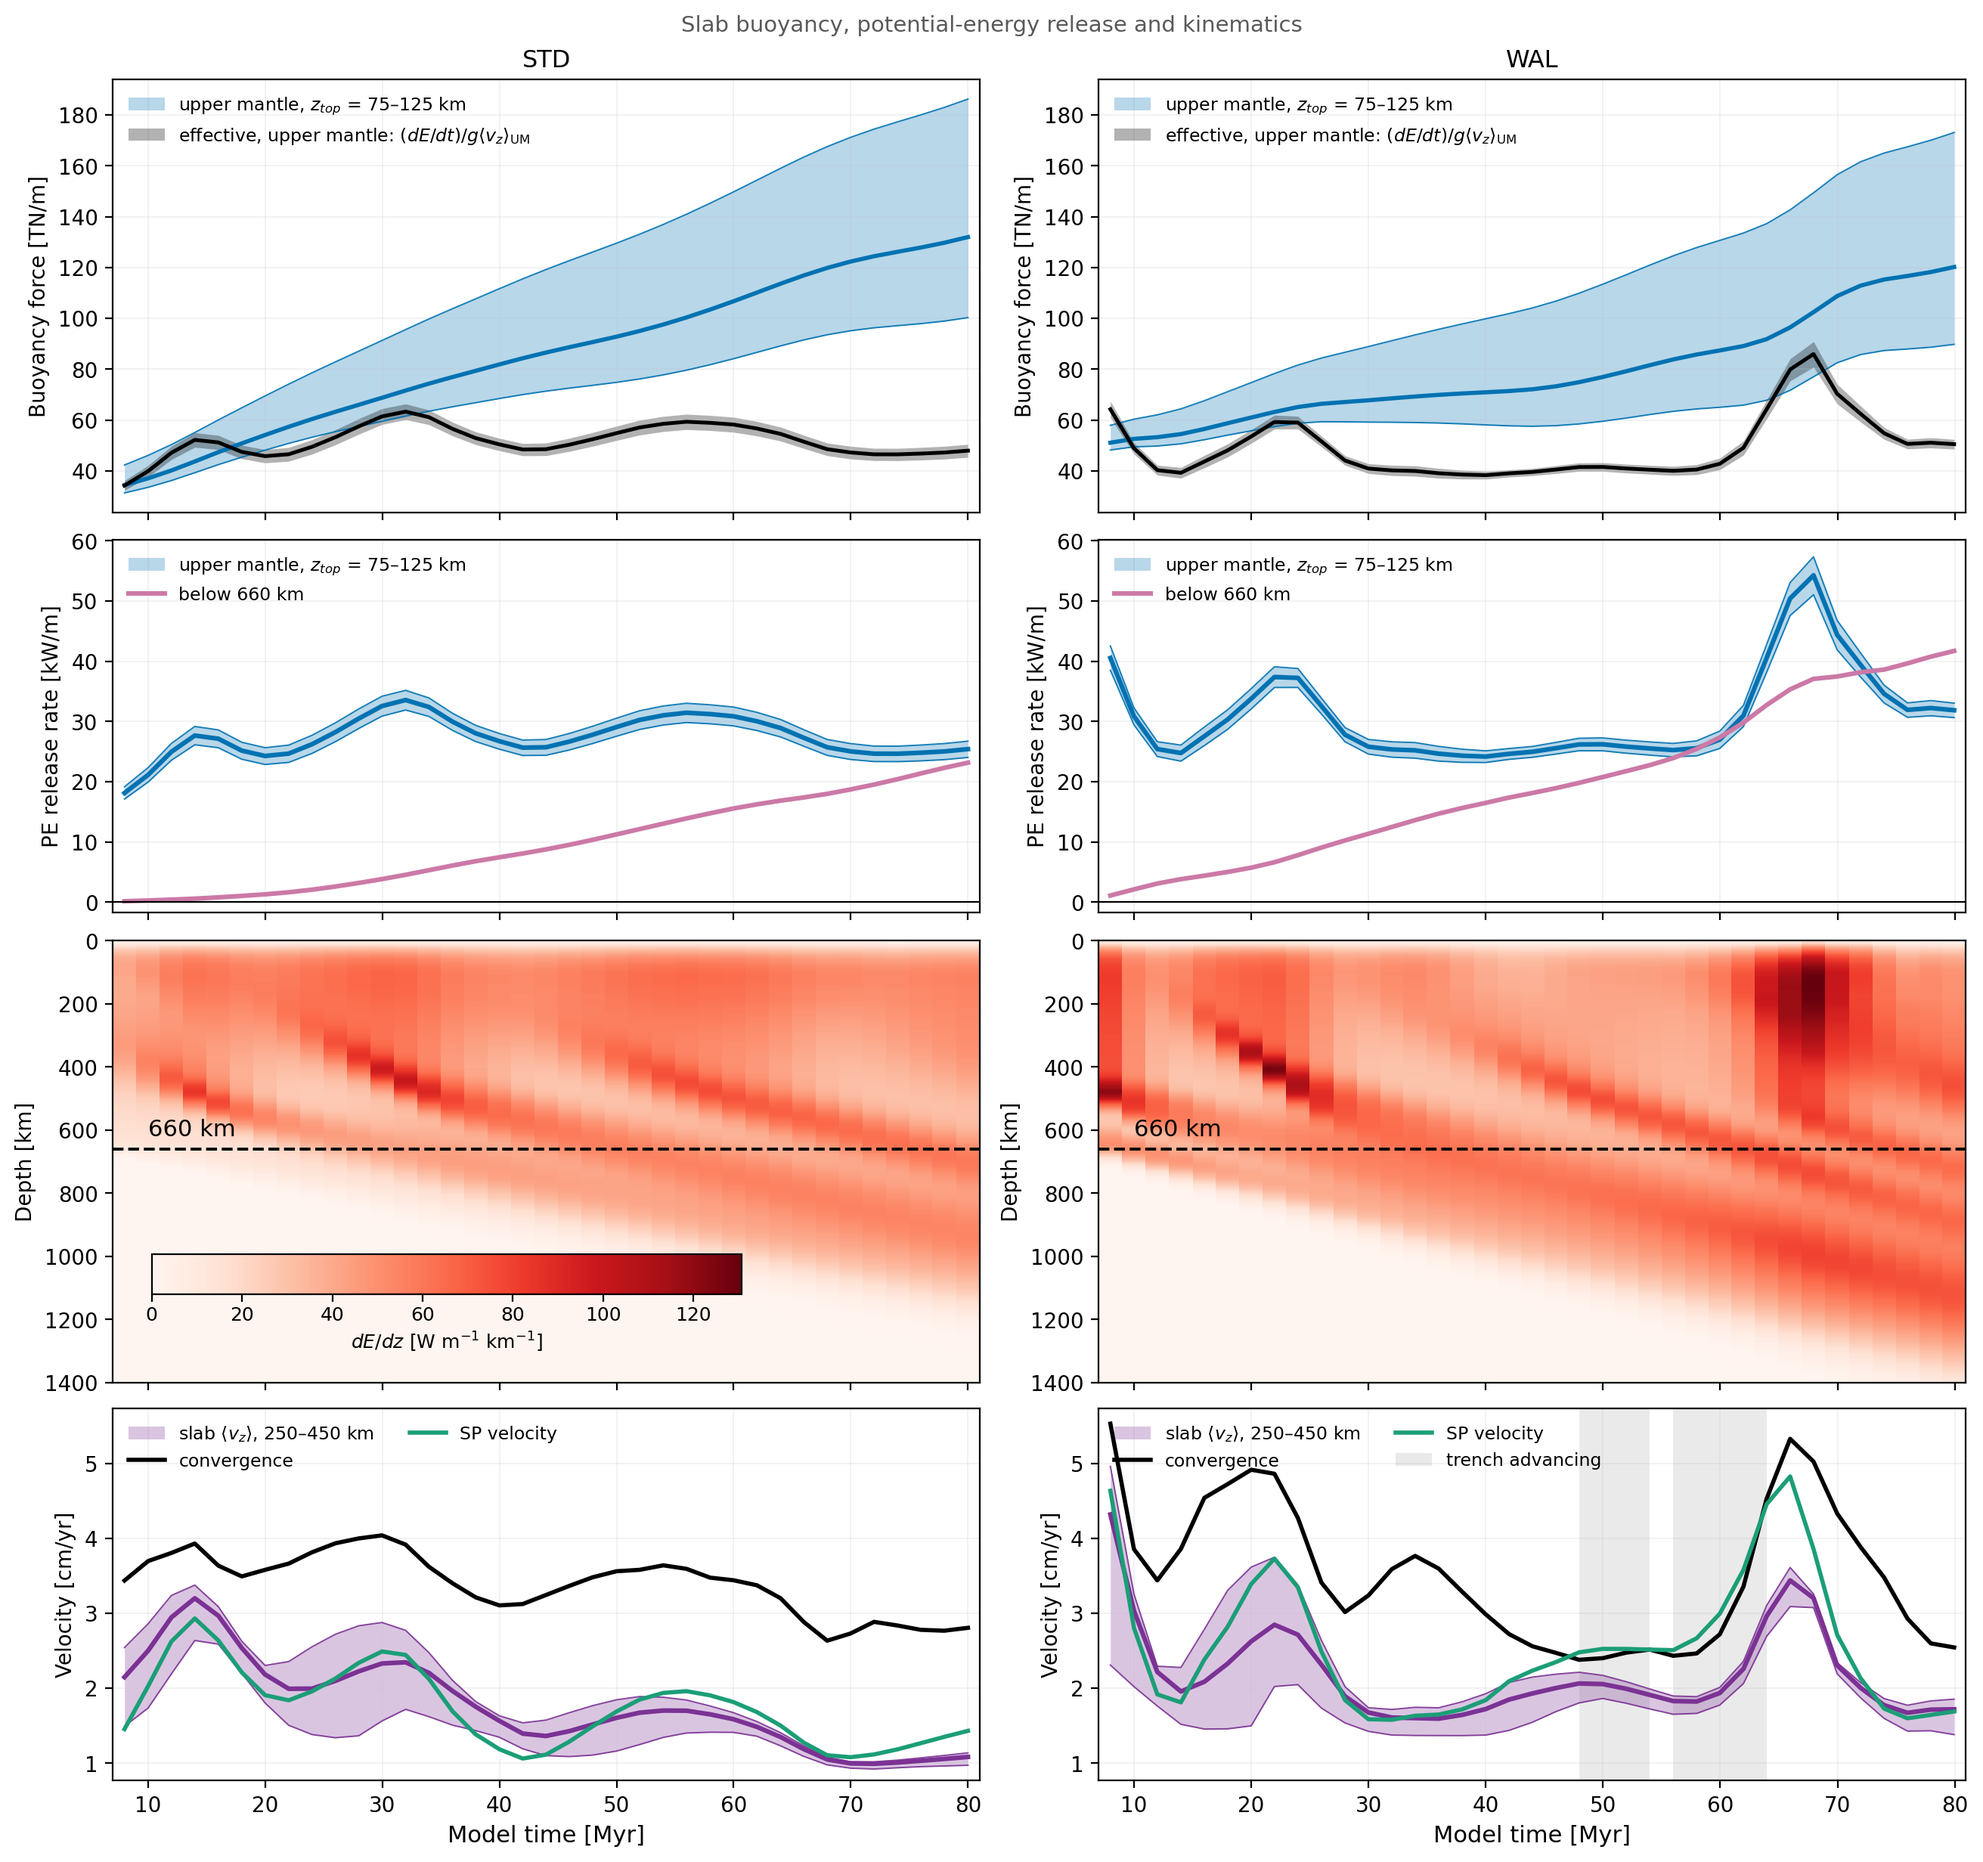
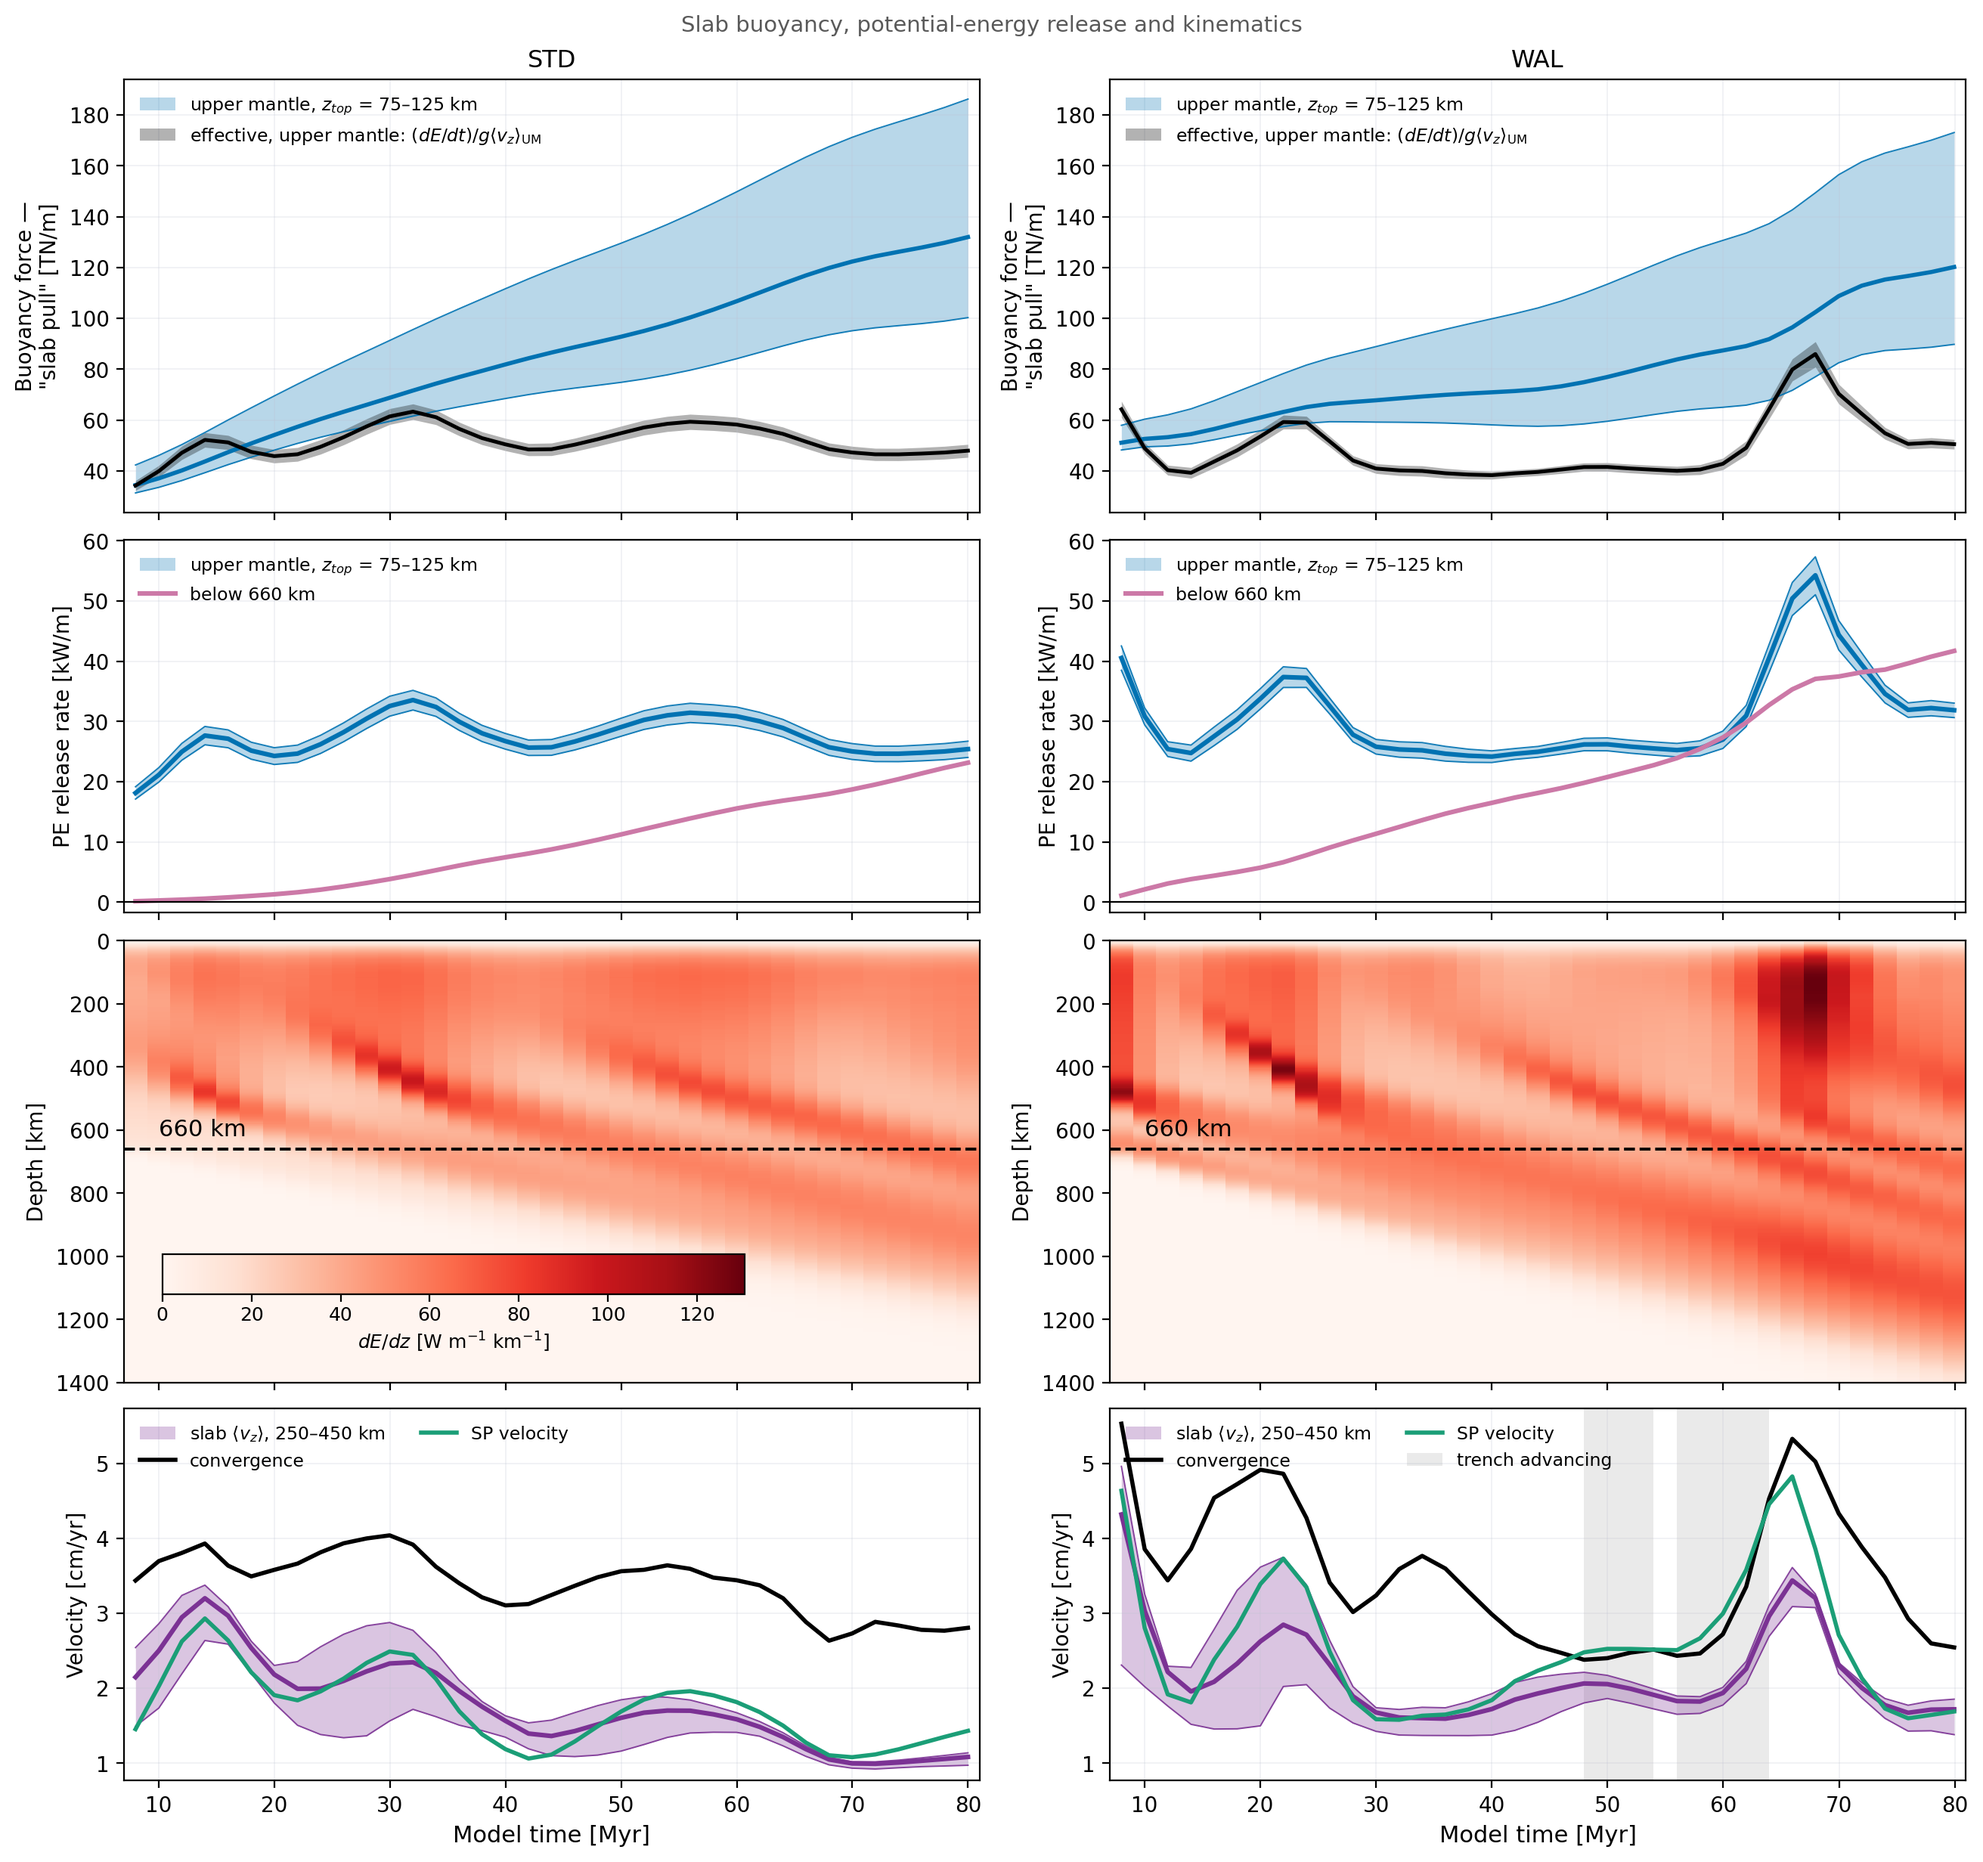
fig_slab_buoyancy{,_kinematics}: name 'slab pull' on the row-1 axis
Dan, 2026-09-24: both row-1 curves are measures of what the literature
calls slab pull, and the figure never said so — a reader who does not
recognise the quantity cannot see that 86 TN/m of it yields 2-3 TN/m at
the trailing plate, which is the whole contrast the figure supports.

Axis now reads 'Buoyancy force — "slab pull"', quoted because the paper's
argument is that it is NOT the force delivered to the plate. Caption opens
by saying the row shows two measures of the conventional quantity. The
standing warning is kept and sharpened: never caption either curve as slab
pull ON the trailing plate.

diff --git a/scripts/fig_slab_buoyancy.py b/scripts/fig_slab_buoyancy.py
@@ -138,9 +138,12 @@ is the folding-regime contrast stated as a budget.
 release; this is correct and is why row 2 can dip.
 ⚠ The 5 km grid resolves the ~100 km anomaly with ~20 cells, adequate for
 an integral but not for a gradient.
-⚠ Gross buoyancy is NOT the force delivered to the plate. That is the
-whole point of the contrast above, and the figure must never be captioned
-as though it measured slab pull on the trailing plate.
+⚠ BOTH ROW-1 CURVES ARE MEASURES OF WHAT IS CONVENTIONALLY CALLED SLAB
+PULL, and the axis now says so -- in quotes, because the paper's argument
+is that this is NOT the force delivered to the trailing plate. Naming it
+is what makes the contrast legible: a reader who does not recognise the
+quantity cannot see that 86 TN/m of it yields 2-3 TN/m at the plate.
+Never caption either curve as slab pull ON the trailing plate.
 
 DRAFT CAPTION. Slab buoyancy and potential-energy release through the
 runs, STD (left) and WAL (right). (a, b) Buoyancy force of cold material
@@ -255,7 +258,11 @@ def main():
                         label='effective, upper mantle: '
                               '$(dE/dt)/g\\langle v_z\\rangle_{\\mathrm{UM}}$')
         a0.plot(t, Feff[1], '-', color=C_EFF, lw=1.8)
-        a0.set_ylabel('Buoyancy force [TN/m]', fontsize=10)
+        # Name the conventional term on the axis (Dan, 2026-09-24): both
+        # curves in this row are measures of what the literature calls slab
+        # pull, and the figure never said so. Quoted, because the paper's
+        # argument is that it is NOT the force delivered to the plate.
+        a0.set_ylabel('Buoyancy force —\n"slab pull" [TN/m]', fontsize=10)
         a0.set_title(key, fontsize=11.5)
         a0.legend(frameon=False, fontsize=8.5, loc='upper left')
 

diff --git a/scripts/fig_slab_buoyancy_kinematics.py b/scripts/fig_slab_buoyancy_kinematics.py
@@ -167,9 +167,12 @@ is the folding-regime contrast stated as a budget.
 release; this is correct and is why row 2 can dip.
 ⚠ The 5 km grid resolves the ~100 km anomaly with ~20 cells, adequate for
 an integral but not for a gradient.
-⚠ Gross buoyancy is NOT the force delivered to the plate. That is the
-whole point of the contrast above, and the figure must never be captioned
-as though it measured slab pull on the trailing plate.
+⚠ BOTH ROW-1 CURVES ARE MEASURES OF WHAT IS CONVENTIONALLY CALLED SLAB
+PULL, and the axis now says so -- in quotes, because the paper's argument
+is that this is NOT the force delivered to the trailing plate. Naming it
+is what makes the contrast legible: a reader who does not recognise the
+quantity cannot see that 86 TN/m of it yields 2-3 TN/m at the plate.
+Never caption either curve as slab pull ON the trailing plate.
 
 DRAFT CAPTION. Slab buoyancy, potential-energy release and kinematics
 through the runs, STD (left) and WAL (right). (a, b) Buoyancy force of
@@ -303,7 +306,11 @@ def main():
                         label='effective, upper mantle: '
                               '$(dE/dt)/g\\langle v_z\\rangle_{\\mathrm{UM}}$')
         a0.plot(t, Feff[1], '-', color=C_EFF, lw=1.8)
-        a0.set_ylabel('Buoyancy force [TN/m]', fontsize=10)
+        # Name the conventional term on the axis (Dan, 2026-09-24): both
+        # curves in this row are measures of what the literature calls slab
+        # pull, and the figure never said so. Quoted, because the paper's
+        # argument is that it is NOT the force delivered to the plate.
+        a0.set_ylabel('Buoyancy force —\n"slab pull" [TN/m]', fontsize=10)
         a0.set_title(key, fontsize=11.5)
         a0.legend(frameon=False, fontsize=8.5, loc='upper left')
 
